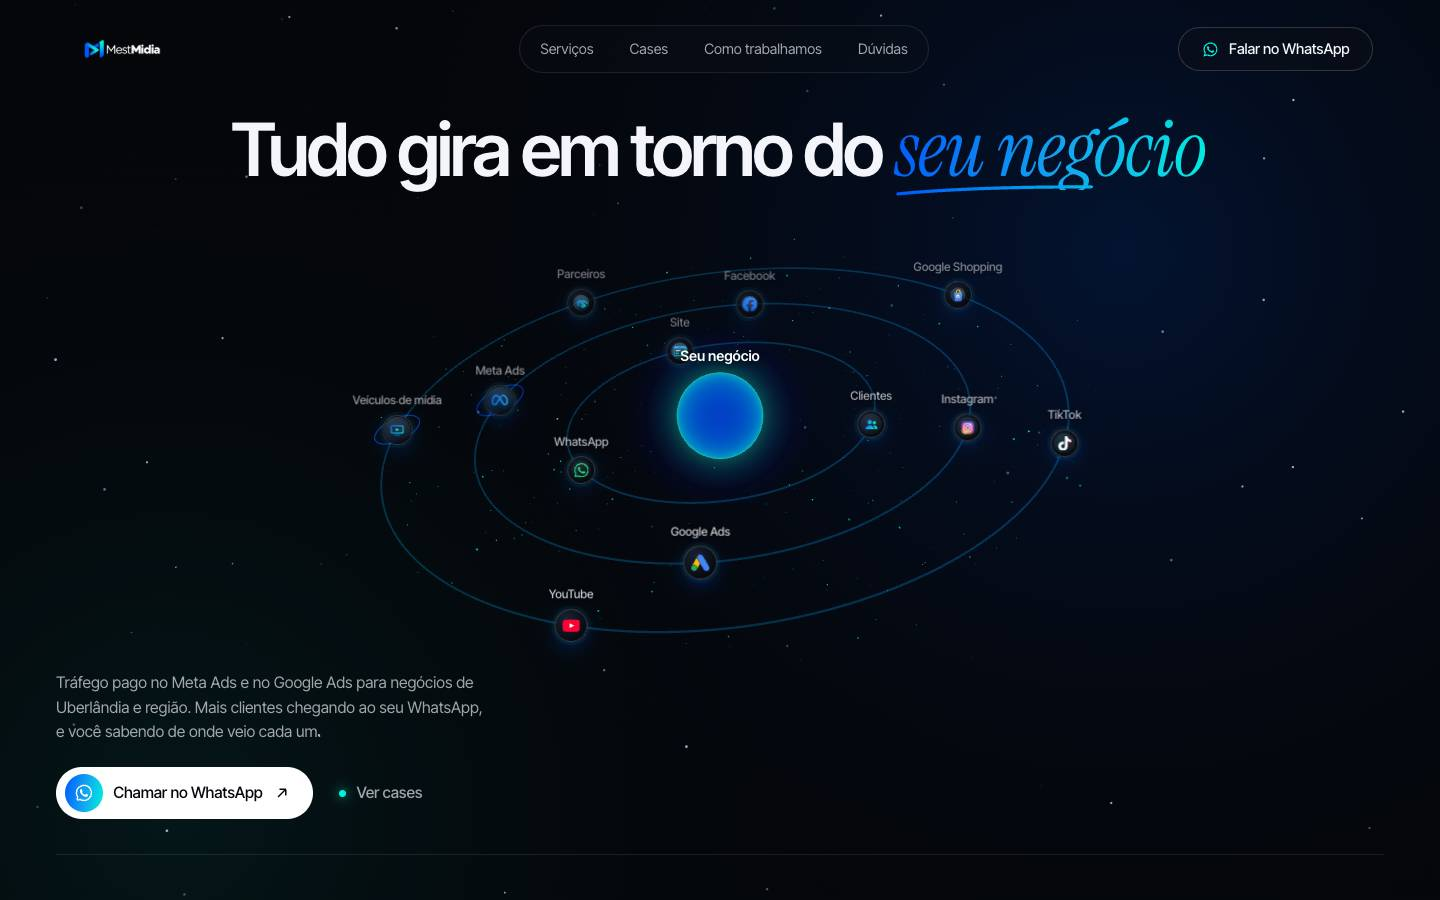
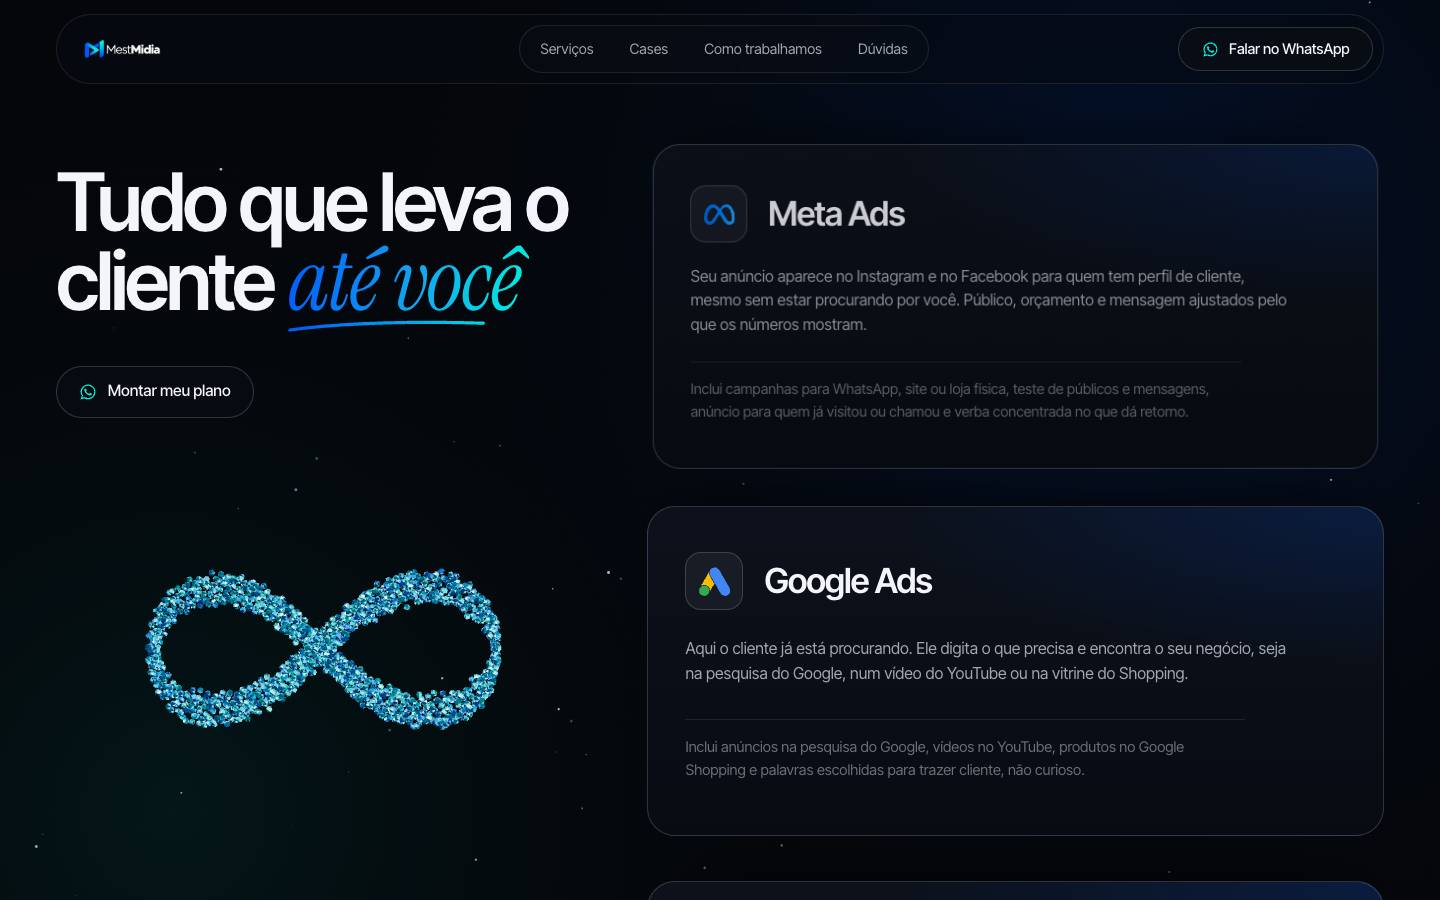
feat: services particle cloud morphs per card (infinity, magnifier, window, spark, bars)

diff --git a/src/3d/lab/objects/nuvem-servicos.ts b/src/3d/lab/objects/nuvem-servicos.ts
@@ -1,0 +1,150 @@
+// NUVEM SERVIÇOS
+// A nuvem que muda de forma a cada serviço de uma agência de tráfego, dirigida
+// pelo scroll: infinito (Meta) -> lupa (busca no Google) -> janela (site) ->
+// faísca (criativo) -> barras (dados). Fica presa ao lado dos cartões que
+// empilham, e cada cartão que sobe troca a forma.
+//
+// Todas as formas usam o mesmo N e cobrem o índice inteiro (regra do motor): a
+// partícula 37 existe nas cinco, então o morph é só interpolar a posição dela.
+// Cada forma reparte o índice em pedaços (anel e cabo da lupa, barra 1..5) por
+// FRAÇÃO de i/n, nunca por contagem fixa: assim nenhuma partícula sobra na origem.
+
+import type { Scene } from "@babylonjs/core/scene";
+import type { Vector3 } from "@babylonjs/core/Maths/math.vector";
+import type { Objeto3D, Paleta } from "../types";
+import { criarNuvem, type Forma } from "./_nuvem";
+
+const TAU = Math.PI * 2;
+const AUREO = Math.PI * (3 - Math.sqrt(5));
+/** ruído determinístico por índice: espessura sem sortear a cada frame */
+const h = (i: number, s: number) => {
+  const x = Math.sin(i * 12.9898 + s * 78.233) * 43758.5453;
+  return x - Math.floor(x);
+};
+
+/** lemniscata de Bernoulli com espessura de tubo: o "∞" do Meta */
+const infinito: Forma = {
+  nome: "infinito",
+  pos: (i, n, out: Vector3) => {
+    const t = (i / n) * TAU;
+    const s = Math.sin(t);
+    const d = 1 + s * s;
+    const a = 2.5;
+    const v = i * AUREO;
+    const r = 0.26 * (0.4 + 0.6 * h(i, 1));
+    out.set((a * Math.cos(t)) / d, (a * s * Math.cos(t)) / d + Math.sin(v) * r, Math.cos(v) * r);
+  },
+};
+
+/** lupa: anel (busca) + cabo na diagonal */
+const lupa: Forma = {
+  nome: "lupa",
+  pos: (i, n, out: Vector3) => {
+    const f = i / n;
+    const v = i * AUREO;
+    if (f < 0.74) {
+      const u = (f / 0.74) * TAU * 5;
+      const R = 1.35;
+      const r = 0.2 * (0.4 + 0.6 * h(i, 2));
+      out.set(-0.45 + (R + r * Math.cos(v)) * Math.cos(u), 0.45 + (R + r * Math.cos(v)) * Math.sin(u), r * Math.sin(v));
+    } else {
+      const k = (f - 0.74) / 0.26; // ao longo do cabo
+      const L = 0.55 + k * 1.55;
+      const r = 0.24 * Math.sqrt(h(i, 3));
+      const c = Math.SQRT1_2;
+      out.set(-0.45 + c * (1.35 + L) + Math.cos(v) * r * c, 0.45 - c * (1.35 + L) + Math.cos(v) * r * c, Math.sin(v) * r);
+    }
+  },
+};
+
+/** janela de navegador: moldura, barra de endereço e blocos de conteúdo */
+const janela: Forma = {
+  nome: "janela",
+  pos: (i, n, out: Vector3) => {
+    const f = i / n;
+    const W = 2.6;
+    const H = 1.75;
+    const z = (h(i, 4) - 0.5) * 0.12;
+    if (f < 0.42) {
+      // moldura: perímetro
+      const p = (f / 0.42) * (2 * W + 2 * H) * 2;
+      let x: number, y: number;
+      if (p < 2 * W) [x, y] = [-W + p, H];
+      else if (p < 2 * W + 2 * H) [x, y] = [W, H - (p - 2 * W)];
+      else if (p < 4 * W + 2 * H) [x, y] = [W - (p - 2 * W - 2 * H), -H];
+      else [x, y] = [-W, -H + (p - 4 * W - 2 * H)];
+      out.set(x, y, z);
+    } else if (f < 0.58) {
+      // barra do topo
+      out.set(-W + h(i, 5) * 2 * W, H - 0.22 - h(i, 6) * 0.28, z);
+    } else if (f < 0.8) {
+      // título grande
+      out.set(-W + 0.35 + h(i, 7) * 2.6, 0.55 - h(i, 8) * 0.55, z);
+    } else {
+      // botão
+      out.set(-W + 0.35 + h(i, 9) * 1.3, -0.65 - h(i, 10) * 0.4, z);
+    }
+  },
+};
+
+/** faísca de 4 pontas (astroide preenchida): o "criativo" */
+const faisca: Forma = {
+  nome: "faisca",
+  pos: (i, n, out: Vector3) => {
+    const th = i * AUREO * 3;
+    const k = Math.pow(h(i, 11), 0.35); // mais denso na borda
+    const R = 2.5;
+    const c = Math.cos(th);
+    const s = Math.sin(th);
+    out.set(R * k * c * c * c, R * k * s * s * s, (h(i, 12) - 0.5) * 0.25 * (1 - k));
+  },
+};
+
+/** cinco barras crescendo: os dados */
+const barras: Forma = {
+  nome: "barras",
+  pos: (i, n, out: Vector3) => {
+    const f = i / n;
+    const b = Math.min(4, Math.floor(f * 5));
+    const alt = [1.1, 1.7, 1.45, 2.6, 3.6][b];
+    const x = -2.2 + b * 1.1;
+    out.set(x + (h(i, 13) - 0.5) * 0.62, -1.8 + h(i, 14) * alt, (h(i, 15) - 0.5) * 0.62);
+  },
+};
+
+export const nuvemServicos: Objeto3D = {
+  id: "nuvem-servicos",
+  nome: "Nuvem Serviços",
+  tags: ["nuvem", "scroll", "morph", "marketing"],
+  serve:
+    "agência de tráfego/marketing: seção de serviços com cartões empilhando. cada serviço uma forma (meta, google, site, criativo, dados).",
+  custo: "medio",
+  nota:
+    "PRECISA de modo scroll com scrollSource = progresso da seção de serviços. as formas repartem o índice por fração de i/n, nunca por contagem: forma nova segue a mesma regra.",
+  autoRotacao: false,
+  camera: { distancia: 11, fov: 0.55 },
+  arquivos: ["src/objects/_nuvem.ts"],
+
+  build(scene: Scene, p: Paleta) {
+    const nuvem = criarNuvem(scene, p, {
+      formas: [infinito, lupa, janela, faisca, barras],
+      n: 1400,
+      estilo: "ponto",
+      tamanho: 0.05,
+      porScroll: true,
+      girar: 0,
+    });
+    // forma chapada (janela, barras) de perfil some: em vez de girar inteiro,
+    // balança de frente. Relógio real, não f.t: no modo scroll f.t para quando a
+    // pessoa para de rolar, e a nuvem ficaria morta na tela.
+    return {
+      root: nuvem.root,
+      raio: nuvem.raio,
+      update(f) {
+        nuvem.update(f);
+        const tt = performance.now() / 1000;
+        nuvem.root.rotation.y = Math.sin(tt * 0.45) * 0.34 + f.mx * 0.3;
+      },
+    };
+  },
+};

diff --git a/src/3d/cloud3d.ts b/src/3d/cloud3d.ts
@@ -1,0 +1,43 @@
+// Serviços: a Nuvem Serviços do Lab 3D, presa ao lado dos cartões. O progresso
+// da seção escolhe a forma (∞ -> lupa -> janela -> faísca -> barras).
+import { montarObjeto } from "./lab/runtime";
+import { paletaDeHex } from "./lab/palettes";
+import { nuvemServicos } from "./lab/objects/nuvem-servicos";
+
+const clamp01 = (v: number) => Math.min(1, Math.max(0, v));
+
+export async function montarNuvem(canvas: HTMLCanvasElement, secao: HTMLElement) {
+  // a forma i aparece INTEIRA quando o cartão i gruda no topo: o motor fecha a
+  // forma no fim de cada trecho, então progresso = i/(n-1) nesse instante.
+  const cards = Array.from(secao.querySelectorAll<HTMLElement>(".stack .card"));
+  let gruda: number[] = [];
+  const pilha = secao.querySelector<HTMLElement>(".stack")!;
+  const medir = () => {
+    // posição de fluxo de cada cartão = topo da pilha + alturas + vãos. Não usa o
+    // rect do cartão: com ele já grudado (link do menu pula direto) a conta erra.
+    const gap = parseFloat(getComputedStyle(pilha).rowGap) || 0;
+    let y = pilha.getBoundingClientRect().top + scrollY;
+    gruda = cards.map((c) => {
+      const g = y - parseFloat(getComputedStyle(c).top);
+      y += c.offsetHeight + gap;
+      return g;
+    });
+  };
+  medir();
+  addEventListener("resize", medir);
+  const progresso = () => {
+    const de = gruda[0];
+    const ate = gruda[gruda.length - 1];
+    return clamp01((scrollY - de) / Math.max(1, ate - de));
+  };
+  const h = montarObjeto(canvas, nuvemServicos, {
+    paleta: paletaDeHex("#0059fc", "#00f2de"),
+    modo: ["scroll", "mouse"],
+    scrollSource: progresso,
+    transparente: true,
+    glow: false,
+  });
+  new IntersectionObserver((es) => h.pausar(!es[0].isIntersecting), { rootMargin: "100px" }).observe(secao);
+  await h.pronto;
+  return h;
+}

diff --git a/src/main.ts b/src/main.ts
@@ -296,6 +296,25 @@ depoisDoLoad(() => {
       }
     });
   }
+  // nuvem dos serviços: só no computador (no celular o título não fica preso
+  // e a nuvem não tem onde morar), montada quando a seção se aproxima
+  const nuvemCv = $<HTMLCanvasElement>("[data-cloud-canvas]");
+  const servicos = $("#servicos");
+  if (nuvemCv && servicos && desktop.matches && !reduz) {
+    const obs = new IntersectionObserver(
+      (es) => {
+        if (!es[0].isIntersecting) return;
+        obs.disconnect();
+        import("./3d/cloud3d")
+          .then((m) => m.montarNuvem(nuvemCv, servicos))
+          .then(() => nuvemCv.parentElement?.classList.add("is-live"))
+          .catch((err) => console.warn("nuvem indisponível", err));
+      },
+      { rootMargin: "700px 0px" }
+    );
+    obs.observe(servicos);
+  }
+
   const canvas = $<HTMLCanvasElement>("[data-orbit-canvas]");
   const labels = $("[data-orbit-labels]");
   if (canvas && labels && orbit) {
